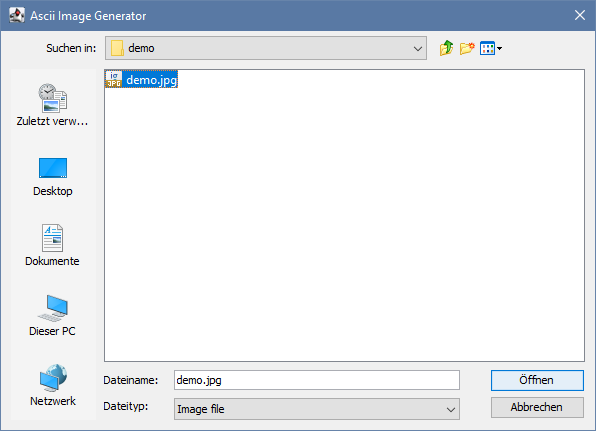
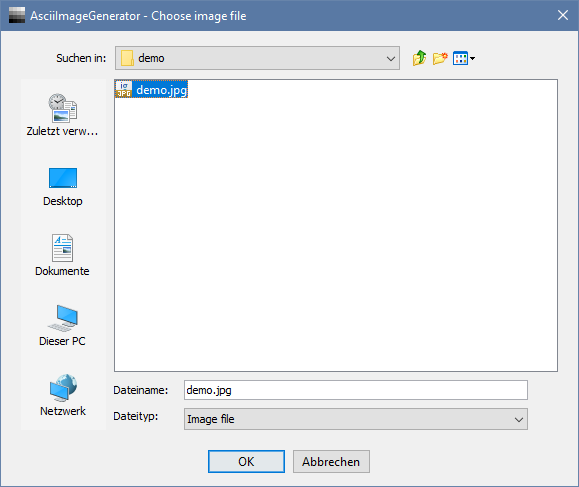
JOptionPane title bar and visibility in taskbar
- JOptionPane title bar icon
- Visibility in task bar
- All dialogs begin with the name of the program
- Update screenshots

diff --git a/src/main/java/com/github/ennoxhd/aig/Dialogs.java b/src/main/java/com/github/ennoxhd/aig/Dialogs.java
@@ -6,6 +6,7 @@ import java.awt.Font;
 import java.awt.event.FocusEvent;
 import java.awt.event.FocusListener;
 import java.awt.geom.Point2D;
+import java.awt.image.BufferedImage;
 import java.io.File;
 import java.io.PrintWriter;
 import java.io.StringWriter;
@@ -13,11 +14,13 @@ import java.text.DecimalFormat;
 import java.text.ParseException;
 import java.util.Optional;
 
+import javax.imageio.ImageIO;
 import javax.swing.BorderFactory;
 import javax.swing.ButtonGroup;
 import javax.swing.GroupLayout;
 import javax.swing.GroupLayout.Alignment;
 import javax.swing.JButton;
+import javax.swing.JDialog;
 import javax.swing.JFileChooser;
 import javax.swing.JFormattedTextField;
 import javax.swing.JFormattedTextField.AbstractFormatter;
@@ -41,9 +44,59 @@ import com.github.ennoxhd.aig.ImageConversionMethods.InterpolationType;
 final class Dialogs {
 	
 	/**
-	 * Private default constructor (not used).
+	 * Application icon.
+	 */
+	private static Optional<BufferedImage> appicon;
+	
+	/**
+	 * Gets the application icon and loads it from resources if necessary.
+	 * @return the application icon
+	 */
+	private static final Optional<BufferedImage> getAppIcon() {
+		if(appicon != null)
+			return appicon;
+		try {
+			final String path = "appicon_32x32.png";
+			final BufferedImage image = ImageIO.read(new Dialogs().getClass().getResourceAsStream(path));
+			appicon = Optional.ofNullable(image);
+		} catch(Exception e) {
+			appicon = Optional.empty();
+		}
+		return appicon;
+	}
+	
+	/**
+	 * Private default constructor.
+	 * @see #getAppIcon()
 	 */
 	private Dialogs() {}
+	
+	/**
+	 * Creates a title for a dialog prefixed with the application name.
+	 * @param dialogTitle the title of the dialog
+	 * @return the title for an application dialog
+	 */
+	private static final String makeTitle(final String dialogTitle) {
+		return "AsciiImageGenerator - " + dialogTitle;
+	}
+	
+	/**
+	 * Prepares and shows a dialog to the user.
+	 * The title gets prefixed with the application name and
+	 * the application icon gets set on the dialog window.
+	 * @param pane the content and choices to show in the dialog
+	 * @param title title to use on the dialog window
+	 * @return the value the user selected
+	 * @see #makeTitle(String)
+	 * @see JOptionPane#JOptionPane(Object, int, int, javax.swing.Icon)
+	 */
+	private static final Object showDialog(final JOptionPane pane, final String title) {
+		final JDialog dialog = pane.createDialog(makeTitle(title));
+		Dialogs.getAppIcon().ifPresent(icon -> dialog.setIconImage(icon));
+		dialog.setVisible(true);
+		dialog.dispose();
+		return pane.getValue();
+	}
 	
 	/**
 	 * Converts an {@link Exception} to a string containing the stack trace. 
@@ -82,8 +135,8 @@ final class Dialogs {
 			layout.setVerticalGroup(layout.createSequentialGroup()
 					.addComponent(message)
 					.addComponent(scrollPane));
-			JOptionPane.showMessageDialog(null, panel,
-					"AsciiImageGenerator - Error", JOptionPane.ERROR_MESSAGE);
+			showDialog(new JOptionPane(panel, JOptionPane.ERROR_MESSAGE,
+					JOptionPane.OK_CANCEL_OPTION), "Error");
 		} catch(final Exception ex) {
 			return;
 		}
@@ -97,8 +150,8 @@ final class Dialogs {
 		String message = "The image file has been converted to ASCII art.";
 		if(fileName != null && !fileName.isBlank())
 			message += "\nFile: " + fileName;
-		JOptionPane.showMessageDialog(null, message, "AsciiImageGenerator",
-				JOptionPane.INFORMATION_MESSAGE);
+		showDialog(new JOptionPane(message, JOptionPane.INFORMATION_MESSAGE,
+				JOptionPane.DEFAULT_OPTION), "Success");
 	}
 
 	/**
@@ -108,23 +161,23 @@ final class Dialogs {
 	static final Optional<File> chooseImageFileDialog() {
 		GuiUtils.initializeGui();
 		final JFileChooser chooser = new JFileChooser();
-		chooser.setDialogTitle("Ascii Image Generator");
+		chooser.setDialogType(JFileChooser.OPEN_DIALOG);
+		chooser.setControlButtonsAreShown(false);
 		final FileFilter imageFileFilter = new FileNameExtensionFilter("Image file",
 				"bmp", "gif", "jpg", "jpeg", "png", "tiff", "wbmp");
 		chooser.addChoosableFileFilter(imageFileFilter);
 		chooser.setFileFilter(imageFileFilter);
 		chooser.setFileSelectionMode(JFileChooser.FILES_ONLY);
 		chooser.setMultiSelectionEnabled(false);
-		if(chooser.showOpenDialog(null) != JFileChooser.APPROVE_OPTION) {
-			return Optional.empty();
-		} else {
+		final int result = (int) showDialog(new JOptionPane(chooser, JOptionPane.PLAIN_MESSAGE,
+				JOptionPane.OK_CANCEL_OPTION), "Choose image file");
+		if(result == JOptionPane.OK_OPTION) {
 			final File selectedFile = chooser.getSelectedFile();
 			if(selectedFile.isFile()) {
 				return Optional.of(selectedFile);
-			} else {
-				return Optional.empty();
 			}
 		}
+		return Optional.empty();
 	}
 	
 	/**
@@ -269,8 +322,8 @@ final class Dialogs {
 					.addComponent(heightProportional))
 		);
 		
-		final int result = JOptionPane.showConfirmDialog(null, panel, "Scaling factors",
-				JOptionPane.OK_CANCEL_OPTION, JOptionPane.PLAIN_MESSAGE);
+		final int result = (int) showDialog(new JOptionPane(panel, JOptionPane.PLAIN_MESSAGE,
+				JOptionPane.OK_CANCEL_OPTION), "Scaling factors");
 		
 		if(result == JOptionPane.OK_OPTION) {
 			final Point2D.Double scale = new Point2D.Double(widthSlider.getValue() / 100.0,
@@ -401,8 +454,8 @@ final class Dialogs {
 			panels[i].setMinimumSize(maxDimension);
 		}
 		
-		final int result = JOptionPane.showConfirmDialog(null, mainPanel, "Image conversion methods",
-				JOptionPane.OK_CANCEL_OPTION, JOptionPane.PLAIN_MESSAGE);
+		final int result = (int) showDialog(new JOptionPane(mainPanel,JOptionPane.PLAIN_MESSAGE,
+				JOptionPane.OK_CANCEL_OPTION), "Image conversion methods");
 		
 		if(result == JOptionPane.OK_OPTION) {
 			final ImageConversionMethods methods = new ImageConversionMethods();

diff --git a/README.md b/README.md
@@ -37,7 +37,7 @@ To start the application simply run the following command from the command line.
 | `./gradlew run` | `.\gradlew.bat run` |
 
 ## Documentation
-### "Open file" dialog
+### "Choose image file" dialog
 Choose an image file in one of the supported formats to start.
 
 **Supported formats:** bmp, gif, jpg, jpeg, png, tiff, wbmp
